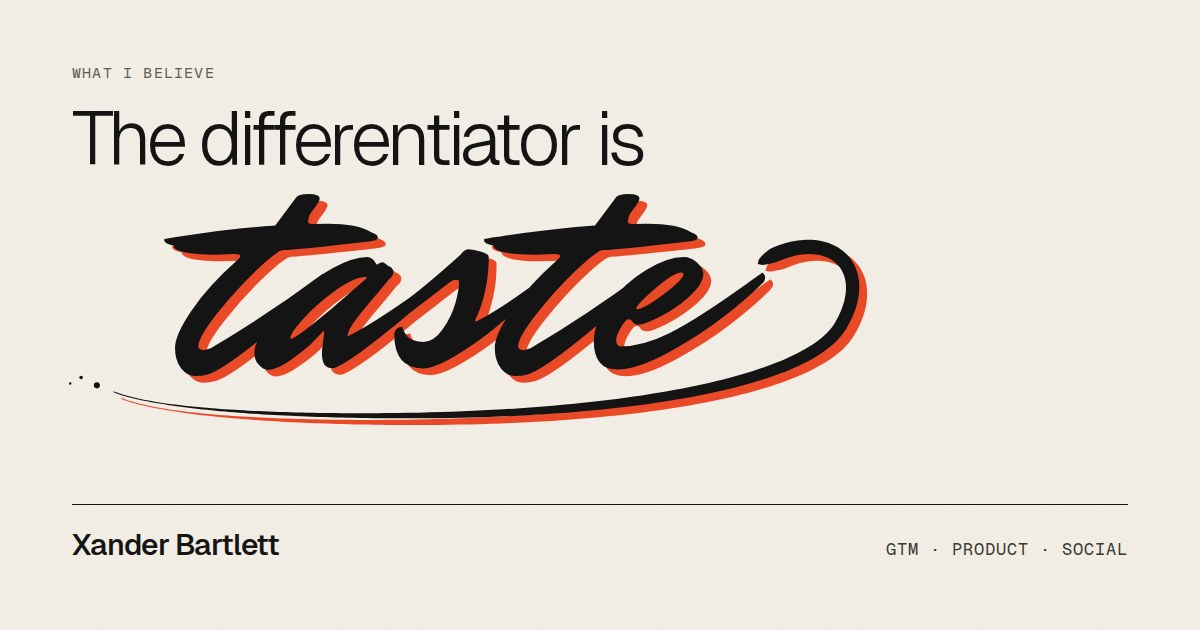
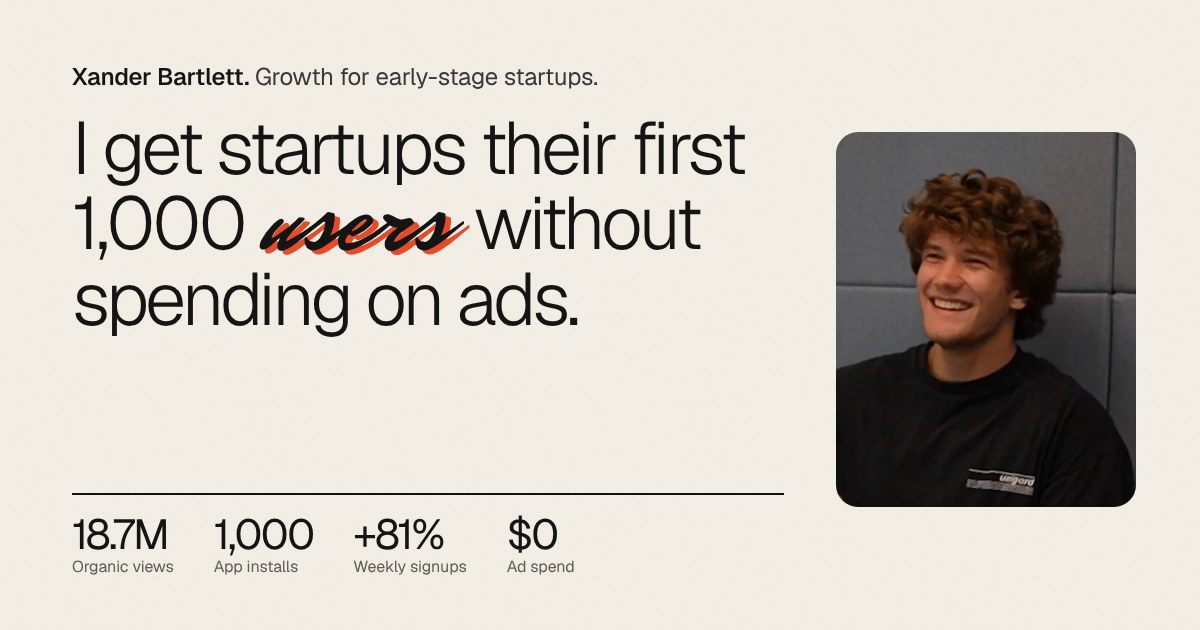
Landing: one pitch, proof, and folded roles and accomplishments
Rebuild the landing page around a single offer ("I get startups their
first 1,000 users without spending on ads") with two proof points, four
numbers and a portrait. Roles and Accomplishments sit underneath as
closed <details> panels, and each accomplishment links to its receipts.
The three case-study pages are now a single "Case studies" line; the
taste lettering and the gallery move below the first screen. The
link-preview image shows the new pitch.

Claude-Session: https://claude.ai/code/session_01ERgzM68gRjhJ8qgRKkrqhA

diff --git a/index.html b/index.html
@@ -3,13 +3,13 @@
 <head>
 <meta charset="utf-8">
 <meta name="viewport" content="width=device-width, initial-scale=1, viewport-fit=cover">
-<title>Xander Bartlett · The differentiator is taste</title>
-<meta name="description" content="Xander Bartlett builds products and takes them to market. GTM strategy and engineering, product management and design, social media marketing. 18.7M organic views, 1,000 app installs, $0 paid.">
+<title>Xander Bartlett · First 1,000 users, $0 in ads</title>
+<meta name="description" content="I get startups their first 1,000 users without spending on ads. 0 to 1,000 installs in four months for a Type 1 diabetes app, and +81% weekly signups in four weeks for a developer tool, both at $0 paid.">
 <meta name="theme-color" content="#f4f0e8">
 <link rel="icon" href="assets/img/favicon.svg" type="image/svg+xml">
 <meta property="og:type" content="website">
-<meta property="og:title" content="Xander Bartlett · The differentiator is taste">
-<meta property="og:description" content="Building a product and showing it to the world are two sides of the same coin. GTM, product and social, with receipts.">
+<meta property="og:title" content="Xander Bartlett · I get startups their first 1,000 users without spending on ads">
+<meta property="og:description" content="0 to 1,000 installs in four months for a health app. +81% weekly signups in four weeks for a developer tool. Both at $0 in ads.">
 <meta property="og:image" content="https://xanderbartlett.com/assets/img/og.jpg">
 <meta name="twitter:card" content="summary_large_image">
 <link rel="preload" href="assets/fonts/geist-latin.woff2" as="font" type="font/woff2" crossorigin>
@@ -19,78 +19,59 @@
 <style>
   .home .shell { grid-template-rows: auto 1fr; }
 
+  .home-main { display: grid; grid-template-rows: 1fr auto auto; row-gap: 1.25rem; padding: 1.5rem 0 1.25rem; }
 
-  .home-main {
-    display: grid;
-    grid-template-columns: minmax(0, 1.62fr) minmax(0, 1fr);
-    column-gap: 3rem;
-    padding: 1.25rem 0 1.25rem;
-  }
+  /* ---------- the pitch ---------- */
+  .pitch { display: grid; grid-template-columns: minmax(0, 1fr) auto; column-gap: 3.5rem; align-items: center; }
+  .pitch__copy { display: flex; flex-direction: column; justify-content: center; min-width: 0; }
+  .kicker { font-size: 1.3rem; color: var(--ink-2); letter-spacing: -0.01em; }
+  .kicker b { color: var(--ink); font-weight: 560; }
+  .pitch h1 { margin-top: 0.8rem; font-weight: 300; font-size: 5.6rem; line-height: 1.02; letter-spacing: -0.048em; max-width: 14.5ch; }
+  .pitch .proof { margin-top: 1.2rem; max-width: 50rem; font-size: 1.5rem; line-height: 1.42; color: var(--ink-2); letter-spacing: -0.012em; }
+  .pitch .proof strong { color: var(--ink); font-weight: 540; }
+  .nums { display: grid; grid-template-columns: repeat(4, auto); justify-content: start; column-gap: 3.2rem; margin-top: 1.5rem; padding-top: 1rem; border-top: 1.5px solid var(--ink); }
+  .nums .v { font-size: 2.9rem; font-weight: 400; letter-spacing: -0.045em; line-height: 1; white-space: nowrap; }
+  .nums .k { margin-top: 0.35rem; font-size: 1rem; color: var(--muted); }
+  .portrait { width: 24rem; aspect-ratio: 590 / 738; border-radius: 1.3rem; overflow: hidden; background: var(--paper-2); }
+  .portrait img { width: 100%; height: 100%; object-fit: cover; object-position: 50% 30%; }
 
-  /* ---- left: belief, then who I am and every link ---- */
-  .left { display: flex; flex-direction: column; justify-content: space-between; min-width: 0; }
-  .hero-h { font-weight: 300; }
-  .hero-pre { display: block; font-size: 5.1rem; line-height: 1; letter-spacing: -0.05em; }
-  .hero-art { display: block; margin: -0.5rem 0 0 -1.7rem; }
-  .taste-art { width: min(calc(100% + 1.7rem), 59rem); height: auto; overflow: visible; }
+  /* ---------- roles + accomplishments, folded ---------- */
+  .fold { display: grid; grid-template-columns: 1fr 1fr; gap: 1.1rem; align-items: start; }
+  .fold details { border: 1px solid var(--ink); border-radius: 1.15rem; background: var(--paper); transition: background 0.2s var(--ease); }
+  .fold details[open] { background: var(--paper-3); }
+  .fold summary { list-style: none; cursor: pointer; display: grid; grid-template-columns: auto minmax(0, 1fr) auto; align-items: center; column-gap: 1rem; padding: 0.95rem 1rem 0.95rem 1.3rem; border-radius: 1.15rem; }
+  .fold summary::-webkit-details-marker { display: none; }
+  .fold summary:hover .plus { background: var(--accent); transform: rotate(90deg); }
+  .fold summary h2 { font-size: 1.75rem; font-weight: 450; letter-spacing: -0.035em; line-height: 1; }
+  .fold summary .peek { min-width: 0; font-size: 1rem; color: var(--muted); white-space: nowrap; overflow: hidden; text-overflow: ellipsis; }
+  .fold .plus { width: 2.4rem; height: 2.4rem; border-radius: 50%; display: grid; place-items: center; background: var(--ink); color: var(--paper); font-size: 1.3rem; line-height: 1; transition: transform 0.3s var(--ease), background 0.2s; }
+  .fold details[open] .plus { transform: rotate(45deg); }
+  .fold details[open] summary:hover .plus { transform: rotate(135deg); }
+  .fold ol { list-style: none; padding: 0 1.3rem 1rem; }
+  .fold li { display: grid; grid-template-columns: minmax(0, 1fr) auto; column-gap: 1rem; padding: 0.8rem 0; border-top: 1px solid var(--hair); }
+  .fold .who { font-size: 1.15rem; font-weight: 540; letter-spacing: -0.02em; }
+  .fold .who a { color: var(--ink); }
+  .fold .role { font-weight: 400; color: var(--ink-2); }
+  .fold .when { font-family: var(--mono); font-size: 0.78rem; color: var(--muted); white-space: nowrap; padding-top: 0.25rem; }
+  .fold .what { grid-column: 1 / -1; margin-top: 0.25rem; font-size: 1.02rem; line-height: 1.42; color: var(--ink-2); }
+  .fold .stat { font-size: 1.15rem; line-height: 1.38; color: var(--ink-2); letter-spacing: -0.012em; }
+  .fold .stat b { color: var(--ink); font-weight: 600; }
+  .fold .rcpt { font-size: 0.86rem; font-weight: 500; color: var(--ink); white-space: nowrap; padding-top: 0.2rem; }
+  .fold .rcpt:hover { text-decoration: underline; text-underline-offset: 3px; }
+
+  /* ---------- go deeper ---------- */
+  .deeper { display: flex; flex-wrap: wrap; align-items: baseline; justify-content: space-between; gap: 0.6rem 2rem; font-size: 1.02rem; color: var(--muted); }
+  .deeper nav { display: flex; flex-wrap: wrap; gap: 0.4rem 1.6rem; align-items: baseline; }
+  .deeper a { color: var(--ink); font-weight: 500; }
+  .deeper a:hover { text-decoration: underline; text-underline-offset: 3px; }
+
+  /* ---------- below the fold: taste + gallery ---------- */
+  .signoff { max-width: var(--max); margin: 0 auto; padding: 2.4rem var(--gutter) 1.2rem; border-top: 0; }
+  .signoff p { font-weight: 300; font-size: 3rem; letter-spacing: -0.045em; line-height: 1; }
+  .signoff .taste-art { display: block; width: min(100%, 40rem); height: auto; margin: -0.2rem 0 0 -1rem; overflow: visible; }
   .t-offset { fill: var(--accent); }
   .t-ink { fill: var(--ink); }
 
-  .about { border-top: 1.5px solid var(--ink); padding-top: 1rem; }
-  .about__row { display: flex; align-items: baseline; gap: 1.1rem; flex-wrap: wrap; }
-  .about__hi { font-weight: 400; font-size: 2.25rem; letter-spacing: -0.04em; line-height: 1.1; }
-  .about__intro { margin-top: 0.45rem; font-size: 1.36rem; line-height: 1.42; color: var(--ink-2); letter-spacing: -0.012em; }
-  .about__current { margin-top: 0.6rem; font-size: 1.16rem; line-height: 1.4; color: var(--ink-2); letter-spacing: -0.012em; }
-  .about__current a { color: var(--ink); }
-
-  .dir { display: grid; grid-template-columns: 1fr 1.2fr 1.15fr; column-gap: 2rem; margin-top: 1.15rem; }
-  .dir dt { font-family: var(--mono); font-size: 0.78rem; letter-spacing: 0.08em; text-transform: uppercase; color: var(--muted); padding-bottom: 0.45rem; border-bottom: 1px solid var(--ink); }
-  .dir dd { padding: 0.42rem 0; border-bottom: 1px solid var(--hair); }
-  .dir .k { display: block; font-size: 0.92rem; color: var(--muted); line-height: 1.25; }
-  .dir .links { display: flex; flex-wrap: wrap; align-items: baseline; gap: 0.15rem 0.9rem; font-size: 1.16rem; line-height: 1.35; letter-spacing: -0.012em; }
-  .dir a { color: var(--ink); }
-  .dir a:hover { color: #000; }
-  .copy {
-    font-family: var(--mono); font-size: 0.66rem; letter-spacing: 0.05em; text-transform: uppercase;
-    padding: 0.16rem 0.55rem; border: 1px solid var(--hair); border-radius: var(--pill); color: var(--ink-2);
-    transition: border-color 0.2s, background 0.2s, color 0.2s;
-  }
-  .copy:hover { border-color: var(--ink); color: var(--ink); }
-  .copy.is-copied { background: var(--ink); color: var(--paper); border-color: var(--ink); }
-
-  /* ---- right: the three doors, stacked ---- */
-  .doors { display: grid; grid-template-rows: repeat(3, minmax(0, 1fr)); gap: 1rem; min-width: 0; }
-  .door {
-    position: relative;
-    display: grid;
-    grid-template-columns: minmax(0, 1fr) auto;
-    grid-template-rows: auto auto 1fr auto;
-    column-gap: 1rem;
-    padding: 1.1rem 1.35rem 1.1rem;
-    border: 1px solid var(--ink);
-    border-radius: 1.2rem;
-    transition: background 0.28s var(--ease), color 0.28s var(--ease);
-  }
-  .door__n { grid-column: 1; font-family: var(--mono); font-size: 0.86rem; letter-spacing: 0.06em; color: var(--muted); }
-  .door__t { grid-column: 1; margin-top: 0.35rem; font-size: 2.6rem; font-weight: 450; line-height: 1.04; letter-spacing: -0.04em; }
-  .door__d { grid-column: 1 / -1; margin-top: 0.55rem; font-size: 1.32rem; line-height: 1.38; color: var(--ink-2); }
-  .door__m { grid-column: 1 / -1; align-self: end; margin-top: 0.7rem; padding-top: 0.6rem; border-top: 1px solid var(--hair); font-family: var(--mono); font-size: 0.88rem; letter-spacing: 0.01em; color: var(--ink-2); }
-  .door__go {
-    grid-column: 2; grid-row: 1 / span 2; align-self: start;
-    width: 3.3rem; height: 3.3rem; border-radius: 50%;
-    display: grid; place-items: center;
-    background: var(--ink); color: var(--paper);
-    font-size: 1.25rem;
-    transition: background 0.28s var(--ease), color 0.28s var(--ease), transform 0.4s var(--ease);
-  }
-  .door:hover, .door:focus-visible { background: var(--ink); color: var(--paper); }
-  .door:hover .door__d, .door:focus-visible .door__d,
-  .door:hover .door__m, .door:focus-visible .door__m { color: rgba(244, 240, 232, 0.8); }
-  .door:hover .door__n, .door:focus-visible .door__n { color: rgba(244, 240, 232, 0.55); }
-  .door:hover .door__m, .door:focus-visible .door__m { border-top-color: rgba(244, 240, 232, 0.18); }
-  .door:hover .door__go, .door:focus-visible .door__go { background: var(--accent); color: var(--ink); transform: rotate(-45deg); }
-
-  /* ---- personal gallery, below the first screen ---- */
   .gallery { max-width: var(--max); margin: 0 auto; padding: 0.4rem var(--gutter) 2.6rem; }
   .gallery__row { display: flex; gap: 1rem; }
   .gallery__row + .gallery__row { margin-top: 1rem; }
@@ -100,16 +81,19 @@
 
   @media (max-width: 900px) {
     .home .topbar { flex-wrap: wrap; }
-    .home-main { grid-template-columns: 1fr; row-gap: 2.2rem; padding-top: 1.2rem; }
-    .hero-pre { font-size: 2.6rem; }
-    .hero-art { margin: -0.2rem 0 0 -0.8rem; }
-    .about { margin-top: 1.4rem; }
-    .about__intro { font-size: 1.08rem; }
-    .about__current { font-size: 1rem; }
-    .dir { grid-template-columns: 1fr; row-gap: 1.2rem; }
-    .doors { grid-template-rows: none; }
-    .door__t { font-size: 1.6rem; }
-    .door__d { font-size: 1rem; }
+    .home-main { padding-top: 1.3rem; row-gap: 1.6rem; }
+    .pitch { grid-template-columns: 1fr; row-gap: 1.4rem; }
+    .portrait { order: -1; width: 7.5rem; height: 7.5rem; aspect-ratio: 1; border-radius: 50%; }
+    .pitch h1 { font-size: 2.7rem; }
+    .pitch .proof { font-size: 1.08rem; }
+    .nums { grid-template-columns: repeat(2, auto); row-gap: 1.1rem; column-gap: 2rem; }
+    .nums .v { font-size: 2rem; }
+    .fold { grid-template-columns: 1fr; }
+    .fold summary .peek { display: none; }
+    .fold summary { grid-template-columns: minmax(0, 1fr) auto; }
+    .fold li { grid-template-columns: 1fr; }
+    .fold .when, .fold .rcpt { padding-top: 0.2rem; }
+    .signoff p { font-size: 2.1rem; }
     .gallery__row { flex-wrap: wrap; gap: 0.7rem; }
     .gallery__row + .gallery__row { margin-top: 0.7rem; }
     .gallery figure { flex: 1 1 calc(50% - 0.35rem); aspect-ratio: 4 / 5; }
@@ -130,107 +114,94 @@
 
   <main class="home-main">
 
-    <div class="left">
-      <section class="hero" aria-labelledby="hero-h">
-        <h1 id="hero-h" class="hero-h">
-          <span class="hero-pre rise">The differentiator is</span>
-          <span class="hero-art"><svg class="taste-art" viewBox="-420 -640 2840 900" role="img" aria-labelledby="taste-title" focusable="false"><title id="taste-title">taste</title><defs><path id="tw" d="M459 -462 510 -463Q609 -463 654 -435Q676 -428 676 -417Q676 -409 656.5 -406Q637 -403 521.5 -390.5Q406 -378 363 -376Q344 -375 275.5 -310Q207 -245 145 -167Q83 -89 83 -58Q83 -53 88 -49.5Q93 -46 100.5 -46Q108 -46 124 -52Q314 -164 493 -297Q502 -290 502 -280Q502 -270 492 -260.5Q482 -251 462.5 -233Q443 -215 390 -168Q337 -121 290 -84Q164 18 114 34Q96 39 71.5 39Q47 39 26.5 14Q6 -11 6 -54Q6 -97 61.5 -178Q117 -259 213 -344Q222 -351 222 -357Q222 -363 201 -363L138 -361Q5 -361 1 -391Q-30 -397 -30 -409Q-30 -413 -26 -413.5Q-22 -414 -19 -414.5Q-16 -415 -9 -416Q-2 -417 101.5 -432Q205 -447 337 -457L406 -549Q412 -561 448 -561Q484 -561 484 -546Q484 -541 476 -528L451 -493Q446 -477 445 -469Q445 -462 459 -462Z M491 -42 499 -106Q499 -109 497.5 -109Q496 -109 492 -105Q479 -91 459 -70.5Q439 -50 390.5 -15.5Q342 19 312 19Q307 18 299.5 15.5Q292 13 280 -1Q268 -15 268 -41Q268 -67 307.5 -120.5Q347 -174 402 -225.5Q457 -277 524.5 -315Q592 -353 642 -353Q661 -352 672 -326Q682 -336 690 -336Q698 -336 709 -324Q715 -323 721 -317.5Q727 -312 727 -302Q727 -292 713 -280Q692 -254 664 -221Q636 -188 624 -173.5Q612 -159 599 -141Q577 -110 575 -91Q677 -140 896 -302Q905 -295 905 -285Q905 -275 897 -268Q889 -261 877.5 -251Q866 -241 832 -212Q798 -183 766.5 -156.5Q735 -130 694.5 -97.5Q654 -65 622 -42Q545 13 526 13Q507 13 499 1Q491 -11 491 -42ZM389 -84Q401 -84 462.5 -133Q524 -182 579 -231L635 -280Q639 -284 639 -285.5Q639 -287 636 -287Q598 -287 537 -243.5Q476 -200 431.5 -151.5Q387 -103 387 -86Q387 -84 389 -84Z M944 -271Q944 -278 933.5 -278Q923 -278 909 -267L778 -166Q764 -158 746 -158Q728 -158 728 -171Q728 -180 730.5 -183Q733 -186 745 -193Q819 -244 947 -359Q962 -379 974 -379Q986 -379 1014 -371.5Q1042 -364 1042 -354Q1042 -294 1031 -245Q1020 -196 1008.5 -170.5Q997 -145 997 -143Q997 -141 999 -141Q1001 -141 1007 -144Q1082 -182 1198 -268L1222 -286Q1231 -279 1231 -269Q1231 -259 1222 -251Q1220 -251 1170.5 -209Q1121 -167 1060.5 -117.5Q1000 -68 931 -27Q862 14 824 14Q730 14 730 -99Q730 -108 737.5 -115.5Q745 -123 757 -123Q757 -118 762.5 -107.5Q768 -97 774 -90Q792 -73 826.5 -73Q861 -73 890.5 -115.5Q920 -158 932 -201.5Q944 -245 944 -271Z M1515 -462 1566 -463Q1665 -463 1710 -435Q1732 -428 1732 -417Q1732 -409 1712.5 -406Q1693 -403 1577.5 -390.5Q1462 -378 1419 -376Q1400 -375 1331.5 -310Q1263 -245 1201 -167Q1139 -89 1139 -58Q1139 -53 1144 -49.5Q1149 -46 1156.5 -46Q1164 -46 1180 -52Q1370 -164 1549 -297Q1558 -290 1558 -280Q1558 -270 1548 -260.5Q1538 -251 1518.5 -233Q1499 -215 1446 -168Q1393 -121 1346 -84Q1220 18 1170 34Q1152 39 1127.5 39Q1103 39 1082.5 14Q1062 -11 1062 -54Q1062 -97 1117.5 -178Q1173 -259 1269 -344Q1278 -351 1278 -357Q1278 -363 1257 -363L1194 -361Q1061 -361 1057 -391Q1026 -397 1026 -409Q1026 -413 1030 -413.5Q1034 -414 1037 -414.5Q1040 -415 1047 -416Q1054 -417 1157.5 -432Q1261 -447 1393 -457L1462 -549Q1468 -561 1504 -561Q1540 -561 1540 -546Q1540 -541 1532 -528L1507 -493Q1502 -477 1501 -469Q1501 -462 1515 -462Z M1679 -302Q1653 -302 1591 -248.5Q1529 -195 1529 -183Q1529 -181 1532 -181Q1554 -181 1619.5 -230Q1685 -279 1685 -297Q1685 -302 1679 -302ZM1466 18Q1389 18 1389 -76Q1389 -135 1440.5 -201.5Q1492 -268 1562 -310.5Q1632 -353 1686 -353Q1710 -353 1730.5 -334Q1751 -315 1751 -297Q1751 -264 1704 -222.5Q1657 -181 1605.5 -155.5Q1554 -130 1537.5 -130Q1521 -130 1513 -145Q1509 -148 1502 -148Q1495 -148 1479 -121.5Q1463 -95 1463 -78.5Q1463 -62 1475 -58Q1551 -58 1640 -102.5Q1729 -147 1886 -259Q1897 -267 1919.5 -283Q1942 -299 1946 -302Q1955 -295 1955 -285Q1955 -275 1946 -267Q1896 -217 1816.5 -155Q1737 -93 1634 -37.5Q1531 18 1466 18Z"/><path id="tf" d="M1930 -330 L1946 -326.8 L1958.2 -328.7 L1969.5 -331.1 L1980.4 -333.5 L1990.8 -335.9 L2000.2 -339.6 L2009.3 -343.4 L2018.3 -346.9 L2027.1 -349.9 L2035.8 -352.7 L2044.4 -355.1 L2052.8 -357.1 L2061.1 -358.8 L2069.2 -360.2 L2077.2 -361.3 L2085 -362.1 L2092.6 -362.5 L2100 -362.7 L2107.2 -362.6 L2114.3 -362.2 L2121.1 -361.5 L2127.8 -360.6 L2134.2 -359.4 L2140.4 -357.9 L2146.4 -356.3 L2152.2 -354.3 L2157.7 -352.2 L2163.1 -349.8 L2168.2 -347.2 L2173.1 -344.4 L2177.8 -341.4 L2182.2 -338.2 L2186.4 -334.8 L2190.4 -331.2 L2194.2 -327.4 L2197.7 -323.4 L2201.1 -319.2 L2204.2 -314.9 L2207 -310.3 L2209.6 -305.5 L2212 -300.6 L2214.2 -295.4 L2216.1 -290 L2217.7 -284.4 L2219.1 -278.6 L2220.2 -272.6 L2221.1 -266.4 L2221.6 -260 L2221.8 -253.4 L2221.7 -246.5 L2221.3 -239.5 L2220.6 -232.2 L2219.5 -224.8 L2218.1 -217.1 L2216.3 -209.3 L2214.1 -201.2 L2211.6 -193 L2208.6 -184.7 L2205.3 -176.1 L2201.5 -167.4 L2197.4 -158.5 L2192.8 -149.5 L2187.7 -140.3 L2182.5 -131.4 L2177.4 -124.2 L2171.6 -116.7 L2165.1 -109.3 L2157.9 -101.8 L2150 -94.4 L2141.4 -87 L2132.2 -79.7 L2122.3 -72.4 L2111.8 -65.1 L2100.6 -58 L2088.7 -50.8 L2076.2 -43.8 L2063.1 -36.8 L2049.3 -30 L2035 -23.2 L2020 -16.5 L2004.4 -9.9 L1988.2 -3.4 L1971.4 3 L1954 9.3 L1936 15.5 L1917.5 21.6 L1898.3 27.6 L1878.7 33.5 L1858.5 39.2 L1837.7 44.8 L1816.4 50.4 L1794.5 55.8 L1772.1 61 L1749.2 66.2 L1725.8 71.2 L1701.9 76.1 L1677.4 80.9 L1652.5 85.6 L1627 90.1 L1601.1 94.5 L1574.7 98.8 L1547.8 103 L1520.5 107 L1492.6 110.8 L1464.4 114.6 L1435.6 118.2 L1406.4 121.7 L1376.8 125 L1346.7 128.2 L1316.2 131.3 L1285.3 134.2 L1254 137 L1222.2 139.6 L1190.1 142.1 L1157.5 144.5 L1124.5 146.7 L1091.2 148.7 L1057.4 150.6 L1023.3 152.4 L988.8 154 L954 155.5 L918.7 156.8 L883.1 158 L847.2 159 L810.9 159.9 L774.3 160.6 L737.3 161.1 L700 161.5 L679 161.7 L658.2 161.8 L637.6 161.8 L617.1 161.9 L596.9 161.8 L576.8 161.8 L556.9 161.7 L537.2 161.5 L517.7 161.3 L498.3 161.1 L479.2 160.8 L460.3 160.5 L441.6 160.1 L423.1 159.7 L404.7 159.2 L386.6 158.7 L368.7 158.2 L351 157.6 L333.5 157 L316.3 156.3 L299.2 155.6 L282.4 154.9 L265.8 154.1 L249.4 153.3 L233.2 152.4 L217.3 151.5 L201.6 150.6 L186.1 149.6 L170.9 148.6 L155.9 147.6 L141.1 146.5 L126.6 145.3 L112.3 144.1 L98.2 142.9 L84.4 141.7 L70.9 140.4 L57.6 139.1 L44.5 137.7 L31.7 136.3 L19.2 134.9 L6.9 133.4 L-5.2 131.9 L-16.9 130.4 L-28.4 128.8 L-39.7 127.2 L-50.6 125.5 L-61.3 123.8 L-71.7 121.9 L-81.9 120.1 L-91.7 118.2 L-101.3 116.3 L-110.6 114.3 L-119.6 112.3 L-128.3 110.3 L-136.8 108.2 L-144.9 106.2 L-152.8 104 L-160.3 101.9 L-167.6 99.7 L-174.5 97.5 L-181.2 95.3 L-187.6 93 L-193.6 90.8 L-200 90 L-200 90 L-194.8 93.9 L-188.7 96.2 L-182.3 98.5 L-175.6 100.7 L-168.6 103 L-161.3 105.1 L-153.7 107.3 L-145.8 109.4 L-137.6 111.5 L-129.1 113.6 L-120.3 115.6 L-111.3 117.6 L-102 119.6 L-92.4 121.5 L-82.5 123.4 L-72.3 125.3 L-61.9 127.1 L-51.2 128.9 L-40.2 130.8 L-29 132.6 L-17.5 134.4 L-5.8 136.2 L6.3 138 L18.5 139.7 L31.1 141.4 L43.9 143 L56.9 144.6 L70.2 146.2 L83.8 147.7 L97.6 149.3 L111.6 150.7 L125.9 152.2 L140.5 153.6 L155.3 155 L170.3 156.3 L185.5 157.6 L201 158.9 L216.7 160.1 L232.7 161.3 L248.8 162.4 L265.2 163.6 L281.9 164.6 L298.7 165.7 L315.8 166.7 L333.1 167.7 L350.6 168.6 L368.3 169.5 L386.2 170.3 L404.3 171.1 L422.7 171.9 L441.2 172.6 L459.9 173.3 L478.9 174 L498 174.6 L517.4 175.2 L536.9 175.7 L556.7 176.2 L576.6 176.7 L596.7 177.1 L617 177.4 L637.5 177.8 L658.1 178.1 L679 178.3 L700 178.5 L737.4 178.7 L774.4 178.8 L811.1 178.7 L847.5 178.4 L883.6 178 L919.3 177.4 L954.6 176.7 L989.6 175.8 L1024.2 174.8 L1058.5 173.5 L1092.4 172.2 L1125.9 170.7 L1159 169 L1191.7 167.1 L1224.1 165.2 L1256 163 L1287.5 160.7 L1318.7 158.3 L1349.4 155.7 L1379.6 153 L1409.5 150.1 L1438.9 147.1 L1467.9 143.9 L1496.4 140.6 L1524.5 137.1 L1552.2 133.5 L1579.3 129.7 L1606 125.8 L1632.3 121.8 L1658.1 117.6 L1683.3 113.3 L1708.1 108.9 L1732.5 104.3 L1756.3 99.5 L1779.6 94.7 L1802.4 89.6 L1824.7 84.5 L1846.5 79.2 L1867.8 73.8 L1888.5 68.3 L1908.7 62.6 L1928.4 56.8 L1947.6 50.8 L1966.2 44.7 L1984.2 38.5 L2001.7 32.1 L2018.7 25.6 L2035 19 L2050.9 12.2 L2066.1 5.3 L2080.8 -1.8 L2094.9 -9 L2108.4 -16.3 L2121.4 -23.8 L2133.7 -31.5 L2145.5 -39.3 L2156.6 -47.3 L2167.2 -55.5 L2177.2 -63.8 L2186.5 -72.3 L2195.2 -81 L2203.2 -89.9 L2210.6 -99.1 L2217.5 -108.6 L2224 -119.3 L2229.8 -129.5 L2235.2 -139.6 L2240.1 -149.6 L2244.6 -159.6 L2248.6 -169.4 L2252.2 -179.2 L2255.4 -188.9 L2258.1 -198.4 L2260.4 -207.9 L2262.3 -217.3 L2263.8 -226.5 L2264.9 -235.6 L2265.5 -244.6 L2265.8 -253.5 L2265.6 -262.2 L2265 -270.8 L2264 -279.2 L2262.6 -287.4 L2260.9 -295.5 L2258.7 -303.4 L2256.1 -311 L2253.1 -318.5 L2249.8 -325.8 L2246 -332.8 L2242 -339.5 L2237.5 -346 L2232.7 -352.3 L2227.6 -358.2 L2222.1 -363.9 L2216.4 -369.2 L2210.3 -374.3 L2203.9 -379 L2197.3 -383.5 L2190.4 -387.5 L2183.3 -391.3 L2175.9 -394.7 L2168.3 -397.8 L2160.4 -400.6 L2152.4 -403 L2144.1 -405 L2135.7 -406.7 L2127.1 -408.1 L2118.3 -409.1 L2109.4 -409.7 L2100.2 -410 L2091 -409.9 L2081.6 -409.5 L2072 -408.7 L2062.4 -407.5 L2052.6 -406 L2042.7 -404.1 L2032.6 -401.8 L2022.5 -399.2 L2012.3 -396.1 L2001.9 -392.7 L1991.5 -388.9 L1981 -384.7 L1970.6 -379.7 L1961.1 -372.5 L1951.8 -364.6 L1942.8 -355.9 L1934.5 -345.9 L1930 -330 Z"/><mask id="m-word" maskUnits="userSpaceOnUse" x="-420" y="-640" width="2840" height="900"><rect class="t-wipe" x="-700" y="-700" width="2900" height="1000" transform="skewX(-18)" fill="#fff"/></mask><mask id="m-flo" maskUnits="userSpaceOnUse" x="-420" y="-640" width="2840" height="900"><path class="t-pen" d="M1930 -330C2150 -470 2330 -330 2200 -120C2080 60 1500 170 700 170C250 170 -80 140 -200 90" pathLength="1000" fill="none" stroke="#fff" stroke-width="74" stroke-linecap="round" stroke-linejoin="round"/></mask></defs><g class="t-offset" transform="translate(26 22)"><use href="#tw"/><use href="#tf"/></g><g class="t-ink"><use href="#tw" mask="url(#m-word)"/><use href="#tf" mask="url(#m-flo)"/><circle class="t-dot" cx="-252" cy="70" r="10"/><circle class="t-dot" cx="-304" cy="44" r="6"/><circle class="t-dot" cx="-340" cy="64" r="4"/></g></svg></span>
-        </h1>
-        <script>
-        /* Write-on animation for the lettering. Markup ships in its final state;
-           this sets the start state before first paint, then animates with rAF.
-           Any failure, or reduced motion, leaves the finished lettering. */
-        (function () {
-          var svg = document.querySelector(".taste-art");
-          if (!svg || !window.requestAnimationFrame) return;
-          if (window.matchMedia && matchMedia("(prefers-reduced-motion: reduce)").matches) return;
-          var wipe = svg.querySelector(".t-wipe"), pen = svg.querySelector(".t-pen"), off = svg.querySelector(".t-offset");
-          var dots = svg.querySelectorAll(".t-dot"), radii = [];
-          for (var i = 0; i < dots.length; i++) radii.push(+dots[i].getAttribute("r"));
-          pen.setAttribute("stroke-dasharray", "1000 1000");
-          function clamp(v) { return v < 0 ? 0 : v > 1 ? 1 : v; }
-          function out(t) { return 1 - Math.pow(1 - t, 3); }
-          function inOut(t) { return t < 0.5 ? 4 * t * t * t : 1 - Math.pow(-2 * t + 2, 3) / 2; }
-          function back(t) { var c = 1.9; return 1 + (c + 1) * Math.pow(t - 1, 3) + c * Math.pow(t - 1, 2); }
-          function frame(t) {
-            var a = out(clamp((t - 120) / 900)), b = inOut(clamp((t - 860) / 1000)), c = out(clamp((t - 1700) / 560));
-            wipe.setAttribute("transform", "translate(" + (-2950 * (1 - a)).toFixed(1) + " 0) skewX(-18)");
-            pen.setAttribute("stroke-dashoffset", (1000 * (1 - b)).toFixed(1));
-            off.setAttribute("transform", "translate(" + (26 * c).toFixed(2) + " " + (22 * c).toFixed(2) + ")");
-            off.style.opacity = c;
-            for (var j = 0; j < dots.length; j++) dots[j].setAttribute("r", (radii[j] * Math.max(0, back(clamp((t - 1780 - j * 90) / 380)))).toFixed(2));
-          }
-          function finish() { frame(1e6); }
-          try { frame(0); } catch (e) { return; }
-          var start = null, done = false;
-          var guard = setTimeout(function () { done = true; finish(); }, 4200);
-          function tick(now) {
-            if (done) return;
-            if (start === null) start = now;
-            var t = now - start;
-            try { frame(t); } catch (e) { done = true; finish(); return; }
-            if (t < 2700) requestAnimationFrame(tick); else { done = true; clearTimeout(guard); finish(); }
-          }
-          var go = function () { requestAnimationFrame(tick); };
-          var ready = document.fonts && document.fonts.ready ? document.fonts.ready : null;
-          var kicked = false, kick = function () { if (!kicked) { kicked = true; go(); } };
-          if (ready) ready.then(kick); setTimeout(kick, 650);
-        })();
-      </script>
-      </section>
+    <section class="pitch" aria-labelledby="pitch-h">
+      <div class="pitch__copy">
+        <p class="kicker rise"><b>Xander Bartlett.</b> Growth for early-stage startups.</p>
+        <h1 id="pitch-h" class="rise" style="--d:1">I get startups their first 1,000 <span class="scr">users</span> without spending on ads.</h1>
+        <p class="proof rise" style="--d:2">I took a Type 1 diabetes app from <strong>zero to 1,000 installs in four months</strong>, and lifted a developer tool's <strong>weekly signups 81% in four weeks</strong>. Neither spent a dollar on ads.</p>
+        <div class="nums rise" style="--d:3" aria-label="Results">
+          <div><div class="v">18.7M</div><div class="k">Organic views</div></div>
+          <div><div class="v">1,000</div><div class="k">App installs</div></div>
+          <div><div class="v">+81%</div><div class="k">Weekly signups</div></div>
+          <div><div class="v">$0</div><div class="k">Ad spend</div></div>
+        </div>
+      </div>
+      <figure class="portrait rise" style="--d:2"><img src="assets/img/me-portrait.jpg" width="590" height="738" alt="Xander Bartlett, smiling, in a black t-shirt"></figure>
+    </section>
 
-      <section class="about rise" style="--d:3" aria-label="About and links">
-        <h2 class="about__hi">Hi, I'm Xander.</h2>
-        <p class="about__intro">I build products and take them to market.<br>Co-Founder and CMO at Remira, GTM lead at Aether, builder of Prove Your Pick. Economics student at the University of Michigan.</p>
-        <p class="about__current">Check out my current product: <a class="link-u ext" href="https://giftganache.com" target="_blank" rel="noopener">giftganache.com</a></p>
+    <section class="fold rise" style="--d:4" aria-label="Roles and accomplishments">
+      <details>
+        <summary>
+          <h2>Roles</h2>
+          <span class="peek">Aether &middot; Remira &middot; Hexaware &middot; Prove Your Pick &middot; The Finance Guide</span>
+          <span class="plus" aria-hidden="true">+</span>
+        </summary>
+        <ol>
+          <li>
+            <span class="who"><a class="ext" href="https://www.runaether.dev" target="_blank" rel="noopener">Aether</a> <span class="role">&middot; Growth &amp; GTM lead, contract</span></span>
+            <span class="when">Aug 2026&ndash;now</span>
+            <span class="what">Rewrote the positioning and built Instagram from 0 to 1,200 followers. Weekly signups rose 81% in four weeks.</span>
+          </li>
+          <li>
+            <span class="who"><a class="ext" href="https://remira-ai.com" target="_blank" rel="noopener">Remira</a> <span class="role">&middot; Co-founder &amp; CMO</span></span>
+            <span class="when">2026&ndash;now</span>
+            <span class="what">Took a Type 1 diabetes app from zero to 1,000 installs with organic video and 2,500 hand-sent DMs, and led product with a team of six.</span>
+          </li>
+          <li>
+            <span class="who"><a class="ext" href="https://giftganache.com" target="_blank" rel="noopener">giftganache.com</a> <span class="role">&middot; My current product</span></span>
+            <span class="when">Now</span>
+          </li>
+          <li>
+            <span class="who">Hexaware Technologies <span class="role">&middot; Business analyst intern</span></span>
+            <span class="when">Jun&ndash;Aug 2026</span>
+            <span class="what">Rebuilt a client's unit economics and pricing, moving projected six-year net cash from &minus;$28M to +$11.5M.</span>
+          </li>
+          <li>
+            <span class="who"><a class="ext" href="https://proveyourpick.com" target="_blank" rel="noopener">Prove Your Pick</a> <span class="role">&middot; Founder</span></span>
+            <span class="when">2026&ndash;now</span>
+            <span class="what">Designed and shipped a stock-picking tournament on my own, by directing AI coding agents.</span>
+          </li>
+          <li>
+            <span class="who"><a class="ext" href="https://www.tiktok.com/@financeguide111" target="_blank" rel="noopener">The Finance Guide</a> <span class="role">&middot; Founder &amp; creator</span></span>
+            <span class="when">May&ndash;Aug 2025</span>
+            <span class="what">An anonymous finance TikTok: 10M views and 15K followers in one summer.</span>
+          </li>
+          <li>
+            <span class="who">University of Michigan <span class="role">&middot; B.S. Economics</span></span>
+            <span class="when">Class of 2028</span>
+          </li>
+        </ol>
+      </details>
 
-        <dl class="dir">
-          <div class="dir__g">
-            <dt>Contact</dt>
-            <dd><span class="k">Email</span><span class="links"><a class="link-u" href="https://mail.google.com/mail/?view=cm&amp;fs=1&amp;to=xbartlet@umich.edu" target="_blank" rel="noopener" data-mailto="xbartlet@umich.edu">xbartlet@umich.edu</a><button class="copy" type="button" data-copy="xbartlet@umich.edu" aria-label="Copy email address"><span data-copy-label>Copy</span></button></span></dd>
-            <dd><span class="k">Phone</span><span class="links"><a href="tel:+19712190675">971-219-0675</a></span></dd>
-            <dd><span class="k">LinkedIn</span><span class="links"><a class="ext" href="https://www.linkedin.com/in/xander-bartlett-557054325/" target="_blank" rel="noopener">xander-bartlett</a></span></dd>
-          </div>
-          <div class="dir__g">
-            <dt>Experience</dt>
-            <dd><span class="k">Remira</span><span class="links"><a class="ext" href="https://remira-ai.com" target="_blank" rel="noopener">remira-ai.com</a><a class="ext" href="https://apps.apple.com/us/app/remira-t1d/id6759989867" target="_blank" rel="noopener">App Store</a></span></dd>
-            <dd><span class="k">Aether</span><span class="links"><a class="ext" href="https://www.runaether.dev" target="_blank" rel="noopener">runaether.dev</a></span></dd>
-            <dd><span class="k">Prove Your Pick</span><span class="links"><a class="ext" href="https://proveyourpick.com" target="_blank" rel="noopener">proveyourpick.com</a></span></dd>
-          </div>
-          <div class="dir__g">
-            <dt>Content</dt>
-            <dd><span class="k">Remira T1D</span><span class="links"><a class="ext" href="https://www.tiktok.com/@remira.t1d" target="_blank" rel="noopener">@remira.t1d</a><a class="ext" href="https://www.tiktok.com/@remira.t1d/collection/Best%20of%20T1D-7653365468719876878" target="_blank" rel="noopener">Best of T1D</a></span></dd>
-            <dd><span class="k">The Finance Guide</span><span class="links"><a class="ext" href="https://www.tiktok.com/@financeguide111" target="_blank" rel="noopener">@financeguide111</a><a class="ext" href="https://www.tiktok.com/@financeguide111/collection/%F0%9F%8F%86Best%20Edits-7520739197204941623" target="_blank" rel="noopener">Best edits</a></span></dd>
-          </div>
-        </dl>
-      </section>
+      <details>
+        <summary>
+          <h2>Accomplishments</h2>
+          <span class="peek">18.7M views &middot; 1,000 installs &middot; +81% signups</span>
+          <span class="plus" aria-hidden="true">+</span>
+        </summary>
+        <ol>
+          <li><span class="stat"><b>18.7M organic views</b> across two accounts I built from zero, with no ad spend.</span><a class="rcpt" href="social/">Receipts &rarr;</a></li>
+          <li><span class="stat"><b>1,000 App Store installs</b> for Remira in four months. 60% activated; 5.0&#9733; from 26 ratings.</span><a class="rcpt" href="gtm/#remira">Receipts &rarr;</a></li>
+          <li><span class="stat"><b>2,500 DMs, written by hand,</b> converted to installs at 15%: over a third of Remira's installs.</span><a class="rcpt" href="social/#remira">Receipts &rarr;</a></li>
+          <li><span class="stat"><b>+81% weekly signups</b> at Aether in four weeks, at $0 paid.</span><a class="rcpt" href="gtm/#aether">Receipts &rarr;</a></li>
+          <li><span class="stat"><b>30% &rarr; 66% daily check-ins</b> after I redesigned Remira's reflection flow.</span><a class="rcpt" href="product/#remira">Receipts &rarr;</a></li>
+          <li><span class="stat"><b>10M views and 2 paid brand deals</b> on an anonymous finance account, in one summer.</span><a class="rcpt" href="social/#finance">Receipts &rarr;</a></li>
+          <li><span class="stat"><b>A full web product, shipped solo</b>, with four record-gaming exploits closed before launch.</span><a class="rcpt" href="product/#pyp">Receipts &rarr;</a></li>
+        </ol>
+      </details>
+    </section>
+
+    <div class="deeper rise" style="--d:5">
+      <nav aria-label="Case studies"><span>Case studies:</span><a href="gtm/">GTM strategy</a><a href="product/">Product</a><a href="social/">Social media</a></nav>
+      <span><a href="https://mail.google.com/mail/?view=cm&amp;fs=1&amp;to=xbartlet@umich.edu" target="_blank" rel="noopener" data-mailto="xbartlet@umich.edu">xbartlet@umich.edu</a> &middot; <a href="tel:+19712190675">971-219-0675</a></span>
     </div>
-
-    <nav class="doors" aria-label="What I do">
-      <a class="door rise" style="--d:4" href="gtm/">
-        <span class="door__n">01</span>
-        <span class="door__t">GTM Strategy &amp; Engineering</span>
-        <span class="door__go" aria-hidden="true">&rarr;</span>
-        <span class="door__d">Finding where the buyer's trust already lives, then building the machine that measures it.</span>
-        <span class="door__m">Aether: +81% weekly signups at $0 paid</span>
-      </a>
-      <a class="door rise" style="--d:5" href="product/">
-        <span class="door__n">02</span>
-        <span class="door__t">Product Management and Design</span>
-        <span class="door__go" aria-hidden="true">&rarr;</span>
-        <span class="door__d">Designing, coding and shipping with cross-functional teams, not just ideating.</span>
-        <span class="door__m">Remira: 1,000 downloads, 60% activated</span>
-      </a>
-      <a class="door rise" style="--d:6" href="social/">
-        <span class="door__n">03</span>
-        <span class="door__t">Social Media Marketing</span>
-        <span class="door__go" aria-hidden="true">&rarr;</span>
-        <span class="door__d">UGC, editing and real empathy for the person on the other side of the feed.</span>
-        <span class="door__m">18.7M organic views, 20K followers, $0 paid</span>
-      </a>
-    </nav>
   </main>
 </div>
+
+<section class="signoff" aria-label="What I believe">
+  <p>The differentiator is</p>
+  <svg class="taste-art" viewBox="-420 -640 2840 900" role="img" aria-labelledby="taste-title" focusable="false"><title id="taste-title">taste</title><defs><path id="tw" d="M459 -462 510 -463Q609 -463 654 -435Q676 -428 676 -417Q676 -409 656.5 -406Q637 -403 521.5 -390.5Q406 -378 363 -376Q344 -375 275.5 -310Q207 -245 145 -167Q83 -89 83 -58Q83 -53 88 -49.5Q93 -46 100.5 -46Q108 -46 124 -52Q314 -164 493 -297Q502 -290 502 -280Q502 -270 492 -260.5Q482 -251 462.5 -233Q443 -215 390 -168Q337 -121 290 -84Q164 18 114 34Q96 39 71.5 39Q47 39 26.5 14Q6 -11 6 -54Q6 -97 61.5 -178Q117 -259 213 -344Q222 -351 222 -357Q222 -363 201 -363L138 -361Q5 -361 1 -391Q-30 -397 -30 -409Q-30 -413 -26 -413.5Q-22 -414 -19 -414.5Q-16 -415 -9 -416Q-2 -417 101.5 -432Q205 -447 337 -457L406 -549Q412 -561 448 -561Q484 -561 484 -546Q484 -541 476 -528L451 -493Q446 -477 445 -469Q445 -462 459 -462Z M491 -42 499 -106Q499 -109 497.5 -109Q496 -109 492 -105Q479 -91 459 -70.5Q439 -50 390.5 -15.5Q342 19 312 19Q307 18 299.5 15.5Q292 13 280 -1Q268 -15 268 -41Q268 -67 307.5 -120.5Q347 -174 402 -225.5Q457 -277 524.5 -315Q592 -353 642 -353Q661 -352 672 -326Q682 -336 690 -336Q698 -336 709 -324Q715 -323 721 -317.5Q727 -312 727 -302Q727 -292 713 -280Q692 -254 664 -221Q636 -188 624 -173.5Q612 -159 599 -141Q577 -110 575 -91Q677 -140 896 -302Q905 -295 905 -285Q905 -275 897 -268Q889 -261 877.5 -251Q866 -241 832 -212Q798 -183 766.5 -156.5Q735 -130 694.5 -97.5Q654 -65 622 -42Q545 13 526 13Q507 13 499 1Q491 -11 491 -42ZM389 -84Q401 -84 462.5 -133Q524 -182 579 -231L635 -280Q639 -284 639 -285.5Q639 -287 636 -287Q598 -287 537 -243.5Q476 -200 431.5 -151.5Q387 -103 387 -86Q387 -84 389 -84Z M944 -271Q944 -278 933.5 -278Q923 -278 909 -267L778 -166Q764 -158 746 -158Q728 -158 728 -171Q728 -180 730.5 -183Q733 -186 745 -193Q819 -244 947 -359Q962 -379 974 -379Q986 -379 1014 -371.5Q1042 -364 1042 -354Q1042 -294 1031 -245Q1020 -196 1008.5 -170.5Q997 -145 997 -143Q997 -141 999 -141Q1001 -141 1007 -144Q1082 -182 1198 -268L1222 -286Q1231 -279 1231 -269Q1231 -259 1222 -251Q1220 -251 1170.5 -209Q1121 -167 1060.5 -117.5Q1000 -68 931 -27Q862 14 824 14Q730 14 730 -99Q730 -108 737.5 -115.5Q745 -123 757 -123Q757 -118 762.5 -107.5Q768 -97 774 -90Q792 -73 826.5 -73Q861 -73 890.5 -115.5Q920 -158 932 -201.5Q944 -245 944 -271Z M1515 -462 1566 -463Q1665 -463 1710 -435Q1732 -428 1732 -417Q1732 -409 1712.5 -406Q1693 -403 1577.5 -390.5Q1462 -378 1419 -376Q1400 -375 1331.5 -310Q1263 -245 1201 -167Q1139 -89 1139 -58Q1139 -53 1144 -49.5Q1149 -46 1156.5 -46Q1164 -46 1180 -52Q1370 -164 1549 -297Q1558 -290 1558 -280Q1558 -270 1548 -260.5Q1538 -251 1518.5 -233Q1499 -215 1446 -168Q1393 -121 1346 -84Q1220 18 1170 34Q1152 39 1127.5 39Q1103 39 1082.5 14Q1062 -11 1062 -54Q1062 -97 1117.5 -178Q1173 -259 1269 -344Q1278 -351 1278 -357Q1278 -363 1257 -363L1194 -361Q1061 -361 1057 -391Q1026 -397 1026 -409Q1026 -413 1030 -413.5Q1034 -414 1037 -414.5Q1040 -415 1047 -416Q1054 -417 1157.5 -432Q1261 -447 1393 -457L1462 -549Q1468 -561 1504 -561Q1540 -561 1540 -546Q1540 -541 1532 -528L1507 -493Q1502 -477 1501 -469Q1501 -462 1515 -462Z M1679 -302Q1653 -302 1591 -248.5Q1529 -195 1529 -183Q1529 -181 1532 -181Q1554 -181 1619.5 -230Q1685 -279 1685 -297Q1685 -302 1679 -302ZM1466 18Q1389 18 1389 -76Q1389 -135 1440.5 -201.5Q1492 -268 1562 -310.5Q1632 -353 1686 -353Q1710 -353 1730.5 -334Q1751 -315 1751 -297Q1751 -264 1704 -222.5Q1657 -181 1605.5 -155.5Q1554 -130 1537.5 -130Q1521 -130 1513 -145Q1509 -148 1502 -148Q1495 -148 1479 -121.5Q1463 -95 1463 -78.5Q1463 -62 1475 -58Q1551 -58 1640 -102.5Q1729 -147 1886 -259Q1897 -267 1919.5 -283Q1942 -299 1946 -302Q1955 -295 1955 -285Q1955 -275 1946 -267Q1896 -217 1816.5 -155Q1737 -93 1634 -37.5Q1531 18 1466 18Z"/><path id="tf" d="M1930 -330 L1946 -326.8 L1958.2 -328.7 L1969.5 -331.1 L1980.4 -333.5 L1990.8 -335.9 L2000.2 -339.6 L2009.3 -343.4 L2018.3 -346.9 L2027.1 -349.9 L2035.8 -352.7 L2044.4 -355.1 L2052.8 -357.1 L2061.1 -358.8 L2069.2 -360.2 L2077.2 -361.3 L2085 -362.1 L2092.6 -362.5 L2100 -362.7 L2107.2 -362.6 L2114.3 -362.2 L2121.1 -361.5 L2127.8 -360.6 L2134.2 -359.4 L2140.4 -357.9 L2146.4 -356.3 L2152.2 -354.3 L2157.7 -352.2 L2163.1 -349.8 L2168.2 -347.2 L2173.1 -344.4 L2177.8 -341.4 L2182.2 -338.2 L2186.4 -334.8 L2190.4 -331.2 L2194.2 -327.4 L2197.7 -323.4 L2201.1 -319.2 L2204.2 -314.9 L2207 -310.3 L2209.6 -305.5 L2212 -300.6 L2214.2 -295.4 L2216.1 -290 L2217.7 -284.4 L2219.1 -278.6 L2220.2 -272.6 L2221.1 -266.4 L2221.6 -260 L2221.8 -253.4 L2221.7 -246.5 L2221.3 -239.5 L2220.6 -232.2 L2219.5 -224.8 L2218.1 -217.1 L2216.3 -209.3 L2214.1 -201.2 L2211.6 -193 L2208.6 -184.7 L2205.3 -176.1 L2201.5 -167.4 L2197.4 -158.5 L2192.8 -149.5 L2187.7 -140.3 L2182.5 -131.4 L2177.4 -124.2 L2171.6 -116.7 L2165.1 -109.3 L2157.9 -101.8 L2150 -94.4 L2141.4 -87 L2132.2 -79.7 L2122.3 -72.4 L2111.8 -65.1 L2100.6 -58 L2088.7 -50.8 L2076.2 -43.8 L2063.1 -36.8 L2049.3 -30 L2035 -23.2 L2020 -16.5 L2004.4 -9.9 L1988.2 -3.4 L1971.4 3 L1954 9.3 L1936 15.5 L1917.5 21.6 L1898.3 27.6 L1878.7 33.5 L1858.5 39.2 L1837.7 44.8 L1816.4 50.4 L1794.5 55.8 L1772.1 61 L1749.2 66.2 L1725.8 71.2 L1701.9 76.1 L1677.4 80.9 L1652.5 85.6 L1627 90.1 L1601.1 94.5 L1574.7 98.8 L1547.8 103 L1520.5 107 L1492.6 110.8 L1464.4 114.6 L1435.6 118.2 L1406.4 121.7 L1376.8 125 L1346.7 128.2 L1316.2 131.3 L1285.3 134.2 L1254 137 L1222.2 139.6 L1190.1 142.1 L1157.5 144.5 L1124.5 146.7 L1091.2 148.7 L1057.4 150.6 L1023.3 152.4 L988.8 154 L954 155.5 L918.7 156.8 L883.1 158 L847.2 159 L810.9 159.9 L774.3 160.6 L737.3 161.1 L700 161.5 L679 161.7 L658.2 161.8 L637.6 161.8 L617.1 161.9 L596.9 161.8 L576.8 161.8 L556.9 161.7 L537.2 161.5 L517.7 161.3 L498.3 161.1 L479.2 160.8 L460.3 160.5 L441.6 160.1 L423.1 159.7 L404.7 159.2 L386.6 158.7 L368.7 158.2 L351 157.6 L333.5 157 L316.3 156.3 L299.2 155.6 L282.4 154.9 L265.8 154.1 L249.4 153.3 L233.2 152.4 L217.3 151.5 L201.6 150.6 L186.1 149.6 L170.9 148.6 L155.9 147.6 L141.1 146.5 L126.6 145.3 L112.3 144.1 L98.2 142.9 L84.4 141.7 L70.9 140.4 L57.6 139.1 L44.5 137.7 L31.7 136.3 L19.2 134.9 L6.9 133.4 L-5.2 131.9 L-16.9 130.4 L-28.4 128.8 L-39.7 127.2 L-50.6 125.5 L-61.3 123.8 L-71.7 121.9 L-81.9 120.1 L-91.7 118.2 L-101.3 116.3 L-110.6 114.3 L-119.6 112.3 L-128.3 110.3 L-136.8 108.2 L-144.9 106.2 L-152.8 104 L-160.3 101.9 L-167.6 99.7 L-174.5 97.5 L-181.2 95.3 L-187.6 93 L-193.6 90.8 L-200 90 L-200 90 L-194.8 93.9 L-188.7 96.2 L-182.3 98.5 L-175.6 100.7 L-168.6 103 L-161.3 105.1 L-153.7 107.3 L-145.8 109.4 L-137.6 111.5 L-129.1 113.6 L-120.3 115.6 L-111.3 117.6 L-102 119.6 L-92.4 121.5 L-82.5 123.4 L-72.3 125.3 L-61.9 127.1 L-51.2 128.9 L-40.2 130.8 L-29 132.6 L-17.5 134.4 L-5.8 136.2 L6.3 138 L18.5 139.7 L31.1 141.4 L43.9 143 L56.9 144.6 L70.2 146.2 L83.8 147.7 L97.6 149.3 L111.6 150.7 L125.9 152.2 L140.5 153.6 L155.3 155 L170.3 156.3 L185.5 157.6 L201 158.9 L216.7 160.1 L232.7 161.3 L248.8 162.4 L265.2 163.6 L281.9 164.6 L298.7 165.7 L315.8 166.7 L333.1 167.7 L350.6 168.6 L368.3 169.5 L386.2 170.3 L404.3 171.1 L422.7 171.9 L441.2 172.6 L459.9 173.3 L478.9 174 L498 174.6 L517.4 175.2 L536.9 175.7 L556.7 176.2 L576.6 176.7 L596.7 177.1 L617 177.4 L637.5 177.8 L658.1 178.1 L679 178.3 L700 178.5 L737.4 178.7 L774.4 178.8 L811.1 178.7 L847.5 178.4 L883.6 178 L919.3 177.4 L954.6 176.7 L989.6 175.8 L1024.2 174.8 L1058.5 173.5 L1092.4 172.2 L1125.9 170.7 L1159 169 L1191.7 167.1 L1224.1 165.2 L1256 163 L1287.5 160.7 L1318.7 158.3 L1349.4 155.7 L1379.6 153 L1409.5 150.1 L1438.9 147.1 L1467.9 143.9 L1496.4 140.6 L1524.5 137.1 L1552.2 133.5 L1579.3 129.7 L1606 125.8 L1632.3 121.8 L1658.1 117.6 L1683.3 113.3 L1708.1 108.9 L1732.5 104.3 L1756.3 99.5 L1779.6 94.7 L1802.4 89.6 L1824.7 84.5 L1846.5 79.2 L1867.8 73.8 L1888.5 68.3 L1908.7 62.6 L1928.4 56.8 L1947.6 50.8 L1966.2 44.7 L1984.2 38.5 L2001.7 32.1 L2018.7 25.6 L2035 19 L2050.9 12.2 L2066.1 5.3 L2080.8 -1.8 L2094.9 -9 L2108.4 -16.3 L2121.4 -23.8 L2133.7 -31.5 L2145.5 -39.3 L2156.6 -47.3 L2167.2 -55.5 L2177.2 -63.8 L2186.5 -72.3 L2195.2 -81 L2203.2 -89.9 L2210.6 -99.1 L2217.5 -108.6 L2224 -119.3 L2229.8 -129.5 L2235.2 -139.6 L2240.1 -149.6 L2244.6 -159.6 L2248.6 -169.4 L2252.2 -179.2 L2255.4 -188.9 L2258.1 -198.4 L2260.4 -207.9 L2262.3 -217.3 L2263.8 -226.5 L2264.9 -235.6 L2265.5 -244.6 L2265.8 -253.5 L2265.6 -262.2 L2265 -270.8 L2264 -279.2 L2262.6 -287.4 L2260.9 -295.5 L2258.7 -303.4 L2256.1 -311 L2253.1 -318.5 L2249.8 -325.8 L2246 -332.8 L2242 -339.5 L2237.5 -346 L2232.7 -352.3 L2227.6 -358.2 L2222.1 -363.9 L2216.4 -369.2 L2210.3 -374.3 L2203.9 -379 L2197.3 -383.5 L2190.4 -387.5 L2183.3 -391.3 L2175.9 -394.7 L2168.3 -397.8 L2160.4 -400.6 L2152.4 -403 L2144.1 -405 L2135.7 -406.7 L2127.1 -408.1 L2118.3 -409.1 L2109.4 -409.7 L2100.2 -410 L2091 -409.9 L2081.6 -409.5 L2072 -408.7 L2062.4 -407.5 L2052.6 -406 L2042.7 -404.1 L2032.6 -401.8 L2022.5 -399.2 L2012.3 -396.1 L2001.9 -392.7 L1991.5 -388.9 L1981 -384.7 L1970.6 -379.7 L1961.1 -372.5 L1951.8 -364.6 L1942.8 -355.9 L1934.5 -345.9 L1930 -330 Z"/><mask id="m-word" maskUnits="userSpaceOnUse" x="-420" y="-640" width="2840" height="900"><rect class="t-wipe" x="-700" y="-700" width="2900" height="1000" transform="skewX(-18)" fill="#fff"/></mask><mask id="m-flo" maskUnits="userSpaceOnUse" x="-420" y="-640" width="2840" height="900"><path class="t-pen" d="M1930 -330C2150 -470 2330 -330 2200 -120C2080 60 1500 170 700 170C250 170 -80 140 -200 90" pathLength="1000" fill="none" stroke="#fff" stroke-width="74" stroke-linecap="round" stroke-linejoin="round"/></mask></defs><g class="t-offset" transform="translate(26 22)"><use href="#tw"/><use href="#tf"/></g><g class="t-ink"><use href="#tw" mask="url(#m-word)"/><use href="#tf" mask="url(#m-flo)"/><circle class="t-dot" cx="-252" cy="70" r="10"/><circle class="t-dot" cx="-304" cy="44" r="6"/><circle class="t-dot" cx="-340" cy="64" r="4"/></g></svg>
+</section>
 
 <section class="gallery" aria-label="Personal photos">
   <div class="gallery__row">

diff --git a/README.md b/README.md
@@ -6,7 +6,7 @@ Personal site for Xander Bartlett: plain static HTML and CSS, no build step. Eve
 
 | Path | What it is |
 | --- | --- |
-| `/` | The landing page: the belief ("the differentiator is taste"), who I am with every link, and three doors stacked on the right. Availability sits in the header |
+| `/` | The landing page: one pitch ("I get startups their first 1,000 users without spending on ads"), the proof in four numbers, and a photo. Roles and Accomplishments fold open underneath; the case-study pages, the taste lettering and the photo gallery sit below |
 | `/gtm/` | GTM Strategy & Engineering: "Distribution is moat." Six key skills, then Aether (main) and Remira as cards |
 | `/product/` | Product Management and Design: "Ideas are nothing without team execution." Remira, Prove Your Pick, New Wave Capital |
 | `/social/` | Social Media Marketing: Remira, The Finance Guide and Aether, each with its best post linked as a thumbnail, plus receipts |
